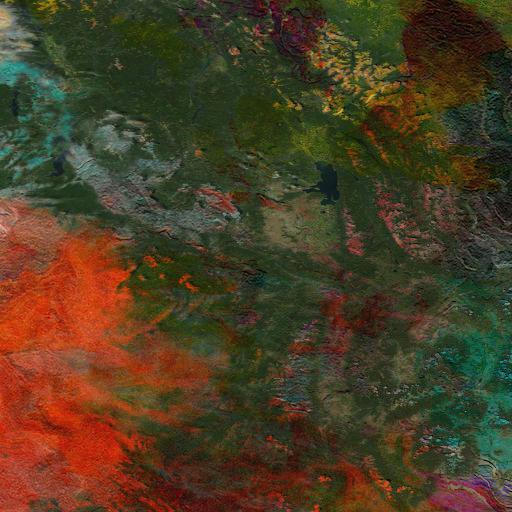
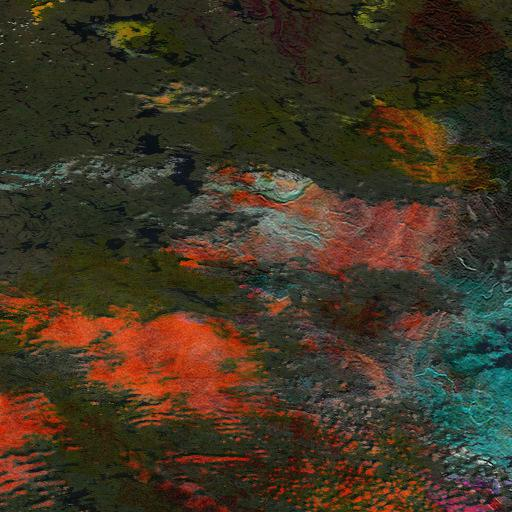
Added 9 filters

diff --git a/templates/index.html b/templates/index.html
@@ -105,7 +105,7 @@
     document.getElementById('filter').addEventListener('click',() => {
         let output = '';
 
-        for(let i=1; i<=6; i++) {
+        for(let i=1; i<=9; i++) {
             output+= `
                 <div class="card mb-4" style="width:320px">
                     <img src="media/outputs/Artified_img-${i}.jpg" class="card-img-top"/>

diff --git a/home/views.py b/home/views.py
@@ -18,7 +18,7 @@ def manipulate():
     response = requests.get(d)
     img = Image.open(BytesIO(response.content))
     size = img.size
-    for y in range(1,5):
+    for y in range(1,10):
         img2=Image.open(os.path.join(mr,"filters","filter({}).jpg".format(y)))
         img2=img2.resize(size, Image.ANTIALIAS)
         img3=ImageChops.blend(img,img2,alpha=(2/10))
